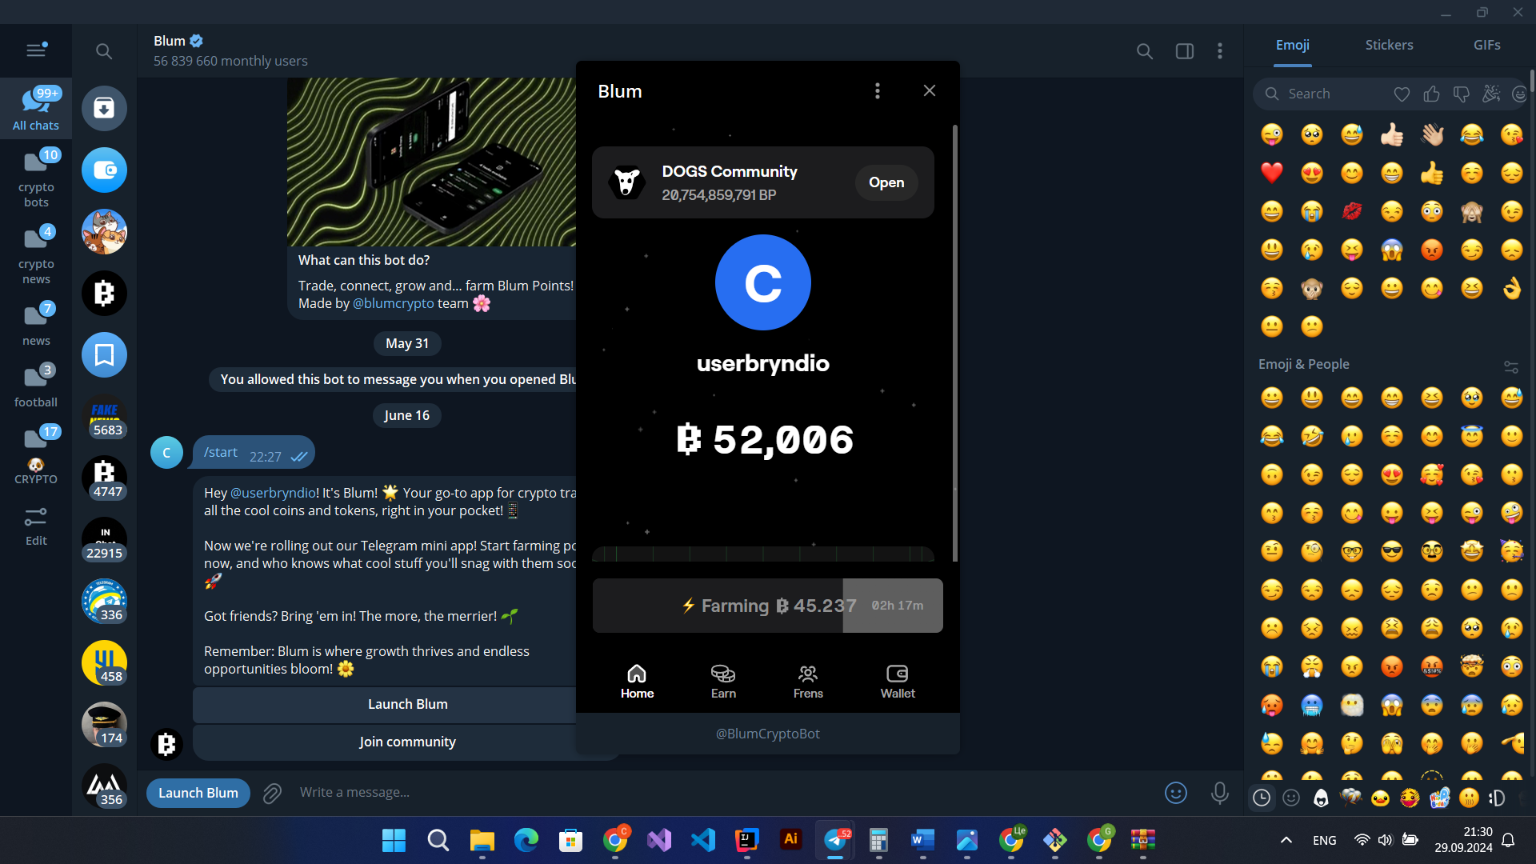
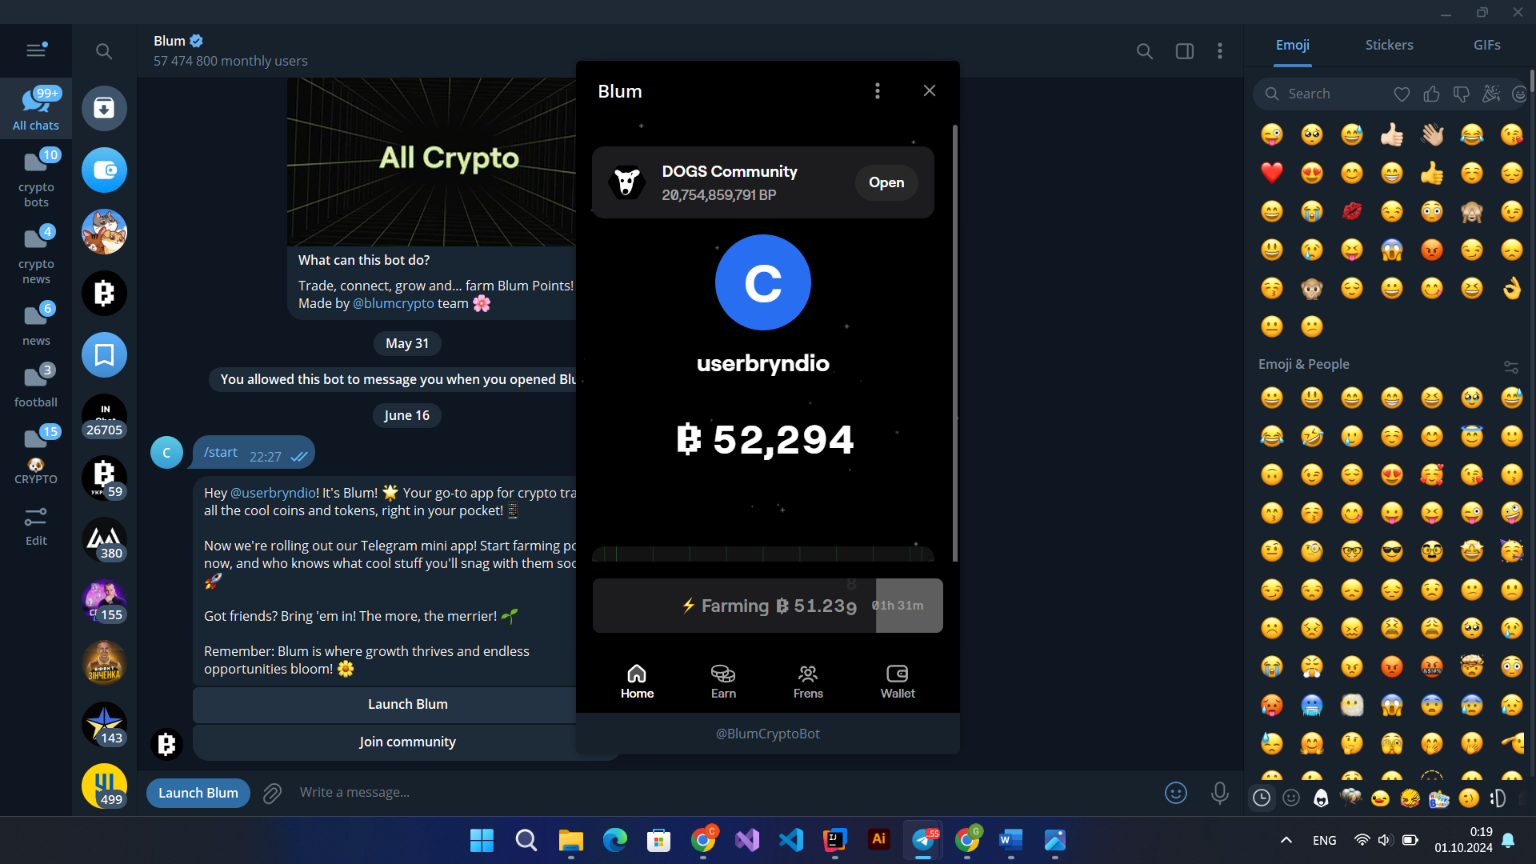
Trying to fix bug with clicking on Play btn. Snap is bad idk why

diff --git a/AutoClicker/blumkiss/src/logic/Logic.java b/AutoClicker/blumkiss/src/logic/Logic.java
@@ -86,15 +86,53 @@ public class Logic {
 
         Thread.sleep(5000);
 
-        captureAndSearchText(robot, "findUsername.png", "userbryndio", "Launch bot");
+        captureAndSearchTextScroll(robot, "findUsername.png", "userbryndio", "Launch bot");
         Thread.sleep(5000);
 
 
         captureAndSearchText(robot, "findPlay.png", "@BlumCryptoBot", "Wallet");
     }
 
-    public void captureAndSearchText(Robot robot, String fileName, String searchText, String foundText) throws AWTException, IOException, InterruptedException {
+    public void scrollToPlay(Robot robot) {
+            robot.mouseWheel(200);
+    }
+
+    public void captureAndSearchTextScroll(Robot robot, String fileName, String searchText, String foundText) throws AWTException, IOException, InterruptedException {
         BufferedImage screenshot = robot.createScreenCapture(new java.awt.Rectangle(java.awt.Toolkit.getDefaultToolkit().getScreenSize()));
+        ImageIO.write(screenshot, "png", new File(fileName));
+        Thread.sleep(1000);
+
+        Tesseract tesseract = new Tesseract();
+        tesseract.setDatapath(dataPath);
+        tesseract.setLanguage("eng");
+
+        File imageFile = new File(fileName);
+        try {
+            String resultText = tesseract.doOCR(imageFile);
+            System.out.println(resultText);
+            findAndClickText(robot, tesseract, screenshot, searchText, foundText);
+            scrollToPlay(robot);
+        } catch (TesseractException e) {
+            e.printStackTrace();
+        }
+    }
+
+
+    public void captureAndSearchText(Robot robot, String fileName, String searchText, String foundText) throws AWTException, IOException, InterruptedException {
+        BufferedImage screenshot;
+        if(searchText.equals("@BlumCryptoBot")){
+            int xPlay = 717; // Верхня ліва межа по X
+            int yPlay = 82;  // Верхня ліва межа по Y
+            int widthPlay = 488; // Ширина вікна
+            int heightPlay = 872; // Висота вікна
+            screenshot = new Robot().createScreenCapture(
+                    new java.awt.Rectangle(xPlay, yPlay, widthPlay, heightPlay)
+            );
+        }
+        else{
+            screenshot = robot.createScreenCapture(new java.awt.Rectangle(java.awt.Toolkit.getDefaultToolkit().getScreenSize()));
+        }
+
         ImageIO.write(screenshot, "png", new File(fileName));
         Thread.sleep(1000);
 
@@ -111,6 +149,7 @@ public class Logic {
             e.printStackTrace();
         }
     }
+
 
     public void findAndClickText(Robot robot, Tesseract tesseract, BufferedImage screenshot, String searchText, String foundText) throws AWTException, InterruptedException {
         List<Word> words = tesseract.getWords(screenshot, ITessAPI.TessPageIteratorLevel.RIL_WORD);
